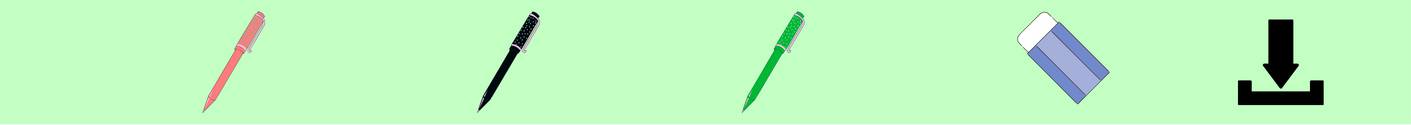
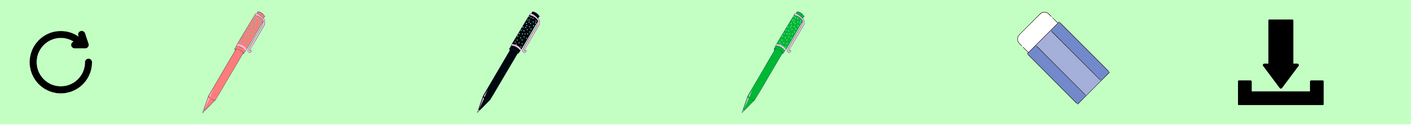
added OCR and reset button

Changed region(s): [[0.0, 0.24, 0.0624, 0.744]]

diff --git a/virtualpainter2.py b/virtualpainter2.py
@@ -3,8 +3,10 @@ import numpy as np
 import time
 import os
 import handtrackingmodule2 as htm
+import easyocr
 
-brushThickness = 20
+
+brushThickness = 10
 eraserThickness = 100
 
 # Get the directory of the current script
@@ -31,7 +33,7 @@ cap = cv2.VideoCapture(0)
 cap.set(3, 1280)
 cap.set(4, 720)
 
-detector = htm.HandDetectorMP(detection_con=0.85)
+detector = htm.HandDetectorMP(detection_con=0.85,max_hands=1)
 
 # Initial points
 xp, yp = 0, 0
@@ -39,6 +41,9 @@ xp, yp = 0, 0
 imgCanvas = np.zeros((720, 1280, 3), np.uint8)
 
 save_canvas = False  # Flag to determine whether to save the canvas
+reader = easyocr.Reader(['en'])
+
+
 
 while True:
     # Import image
@@ -48,6 +53,10 @@ while True:
     # Find hand landmarks
     img = detector.find_hands(img)
     lm_list = detector.find_position(img, draw=True)
+
+
+ 
+             
 
     if len(lm_list) != 0:
         # Tip of index and middle finger
@@ -75,33 +84,58 @@ while True:
 
                 # Clicking the header
                 if y1 < 125:
-                    if 200 < x1 < 400:
+
+                    if 0<x1<100:
+                        header=overlayList[5]
+                        cv2.putText(img, "Reset",(420,340),cv2.FONT_HERSHEY_SIMPLEX, 0.7, (255, 255, 255), 2, cv2.LINE_AA)
+                        # Clear canvas
+                        imgCanvas = np.zeros((720, 1280, 3), np.uint8)
+                        
+                    elif 150 < x1 < 350:
                         header = overlayList[0]
-                        drawColor = (255, 0, 0)
-                    elif 500 < x1 < 700:
-                        header = overlayList[1]
                         drawColor = (0, 0, 255)
-                    elif 750 < x1 < 900:
+                    elif 450 < x1 < 650:
+                        header = overlayList[1]
+                        drawColor = (255, 0, 0)
+                    elif 700 < x1 < 850:
                         header = overlayList[2]
                         drawColor = (0, 255, 0)
-                    elif 1000 < x1 < 1150:
+                    elif 950 < x1 < 1100:
                         header = overlayList[3]
                         drawColor = (0, 0, 0)
-                    elif 1250 < x1 < 1450:
+                    elif 1150 < x1 < 1400:
                         header = overlayList[4]
                         if save_canvas:
                             canvas_folder = os.path.join(script_dir, "canvas")
                             if not os.path.exists(canvas_folder):
                                 os.makedirs(canvas_folder)
-                            cv2.imwrite(os.path.join(canvas_folder, "canvas.png"), imgCanvas)
+
+                            cropped_canvas = imgCanvas[125:, :]
+
+                            cv2.imwrite(os.path.join(canvas_folder, "canvas.png"), cropped_canvas)
                             save_canvas = False
                             print("Canvas saved!")
                             # Prompt box
+                            result = reader.readtext(os.path.join(canvas_folder, "canvas.png"))
+                            # Write the detected text to a text file
+
+                            with open(os.path.join(script_dir, "output", "detected_text.txt"), 'w') as file:
+                                for (bbox, text, prob) in result:
+                                    file.write(f'Text: {text}, Probability: {prob}\n')
+
+                            print("Text detected and saved to 'detected_text.txt'!")
+                            save_canvas = False
+
+
+            
                             cv2.rectangle(img, (400, 200), (880, 400), (0, 255, 0), cv2.FILLED)
-                            cv2.putText(img, "Canvas Saved!", (420, 340), cv2.FONT_HERSHEY_SIMPLEX, 2, (255, 255, 255), 5, cv2.LINE_AA)
+                            cv2.putText(img, "Canvas Saved!", (420, 340), cv2.FONT_HERSHEY_SIMPLEX, 0.7, (255, 255, 255), 2, cv2.LINE_AA)
+
+
 
                 cv2.rectangle(img, (x1, y1 - 25), (x2, y2 + 25), drawColor, cv2.FILLED)
 
+                
         # Only index finger is up aka (drawing mode)
         if len(fingers) >= 3:  # Ensure fingers list has enough elements
             if fingers[1] and not fingers[2]:

diff --git a/ocr.py b/ocr.py
@@ -1,0 +1,19 @@
+import easyocr
+import os
+
+# Full path to the directory where you want to save the file
+output_directory = "C:\\Users\\jason\\Documents\\VS Code Programs\\ip-project\\output"
+
+# Create the directory if it doesn't exist
+if not os.path.exists(output_directory):
+    os.makedirs(output_directory)
+
+reader = easyocr.Reader(['en'])  # specify the language
+result = reader.readtext(r"C:\Users\jason\Documents\VS Code Programs\ip-project\canvas\canvas.png")
+
+# Open a text file in write mode, specifying the full path
+output_file_path = os.path.join(output_directory, "detected_text.txt")
+with open(output_file_path, 'w') as file:
+    # Iterate through the detected text and write it to the file
+    for (bbox, text, prob) in result:
+        file.write(f'Text: {text}, Probability: {prob}\n')
